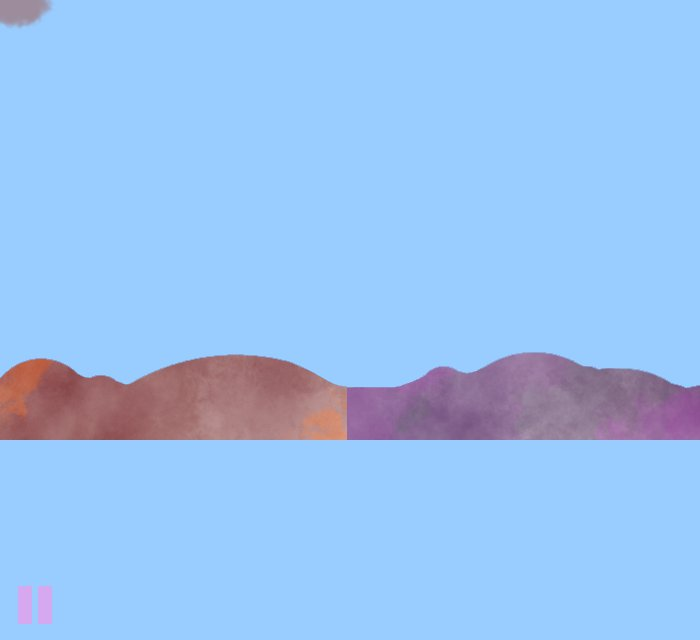
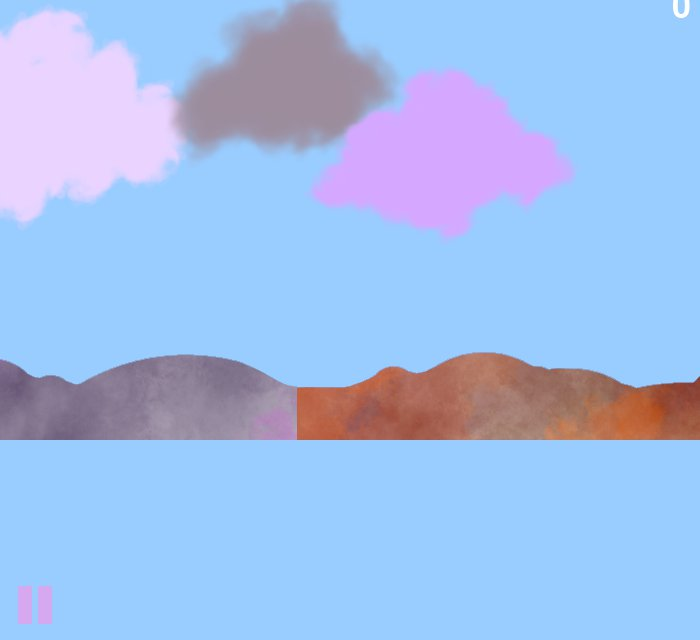
Add files via upload
погода сделана

Changed region(s): [[0.0, 0.0, 0.84, 0.375], [0.0, 0.5312, 1.0, 0.6875], [0.96, 0.0, 0.99, 0.0312]]

diff --git a/999.py b/999.py
@@ -1,0 +1,362 @@
+import os
+import sqlite3
+import sys
+import pygame
+import random
+
+
+WIDTH = 700
+HEIGHT = 700
+
+
+def load_screen_im(name, colorkey=None):
+    fullname = os.path.join('data', name)
+    if not os.path.isfile(fullname):
+        print(f"Файл с изображением '{fullname}' не найден")
+        sys.exit()
+    image = pygame.image.load(fullname)
+    if colorkey is not None:
+        image = image.convert()
+        if colorkey == -1:
+            colorkey = image.get_at((0, 0))
+        image.set_colorkey(colorkey)
+    else:
+        image = image.convert_alpha()
+    return image
+
+
+def music_play(name):
+    fullname = os.path.join('data', name)
+    if not os.path.isfile(fullname):
+        print(f"Звуковой файл '{fullname}' не найден")
+        sys.exit()
+    pygame.mixer.music.load(fullname)
+    pygame.mixer.music.play(-1)
+
+
+class App:
+    def __init__(self):
+        pygame.init()
+        self.screen = pygame.display.set_mode((WIDTH, HEIGHT))
+        pygame.display.set_caption('DESERT Adventure')
+        self.all_sprites = pygame.sprite.Group()
+        self.bird = AnimatedSprite(self, load_screen_im("birds5.png"), 8, 3, 700, 260)
+        self.fps = 200.0
+        self.clock = pygame.time.Clock()
+        self.length = 0
+        self.score = 0
+        self.mus = music_play('music.mp3')
+
+    def terminate(self):
+        pygame.quit()
+        sys.exit()
+
+    def game(self):
+        dog_surf = load_screen_im('pause.png')
+        dog_rect = dog_surf.get_rect(bottomright=(60, 690))
+        picture = Picture()
+        weather = Weather()
+        pause = False
+        run = True
+
+        while run:
+            for event in pygame.event.get():
+                if event.type == pygame.QUIT:
+                    self.terminate()
+                if event.type == pygame.MOUSEBUTTONUP:
+                    x, y = event.pos
+                    if (x in range(10, 60)) and (y in range(640, 690)):
+                        print('Пауза')
+                        if not pause:
+                            pause = True
+                            dog_surf = load_screen_im('play.png', -1)
+                            rect = pygame.Rect(0, 60, 700, 640)
+                            sub = self.screen.subsurface(rect)
+                            pygame.image.save(sub, 'data/screenshot.jpg')
+                            pause_screen = load_screen_im('screenshot.jpg')
+                            pause_rect = pause_screen.get_rect(topleft=(0, 60))
+                            self.screen.blit(pause_screen, pause_rect)
+                            pygame.mixer.music.pause()
+
+                        else:
+                            pause = False
+                            dog_surf = load_screen_im('pause.png', -1)
+                            pygame.mixer.music.unpause()
+            self.screen.fill('#99CCFF')
+            self.all_sprites.draw(self.screen)
+
+            if not pause:
+                self.length += 0.06
+
+                self.fps += 0.5
+
+                self.all_sprites.update()
+
+                font = pygame.font.Font(None, 50)
+                string_rendered = font.render(str(int(self.length)) + 'м', True, pygame.Color('white'))
+                intro_rect = string_rendered.get_rect()
+                intro_rect.top = 10
+                intro_rect.x = 675 - 24 * len(str(int(self.length)))
+                self.screen.blit(string_rendered, intro_rect)
+
+            else:
+                font = pygame.font.Font(None, 120)
+
+                string_rendered = font.render(str(int(self.length)) + 'м', True, pygame.Color('white'))
+                intro_rect = string_rendered.get_rect()
+                intro_rect.top = 250
+                intro_rect.x = (700 - 60 * len(str(int(self.length)))) // 2
+                self.screen.blit(string_rendered, intro_rect)
+
+            font = pygame.font.Font(None, 50)
+            string_rendered = font.render(str(int(self.score)), True, pygame.Color('white'))
+            intro_rect = string_rendered.get_rect()
+            intro_rect.top = 50
+            intro_rect.x = 700 - 28 * len(str(int(self.score)))
+            self.screen.blit(string_rendered, intro_rect)
+
+            self.screen.blit(picture.image, picture.rect)
+            self.screen.blit(picture.image2, picture.rect2)
+
+            if weather.clouds:
+                self.screen.blit(weather.clouds_1, weather.rect)
+                self.screen.blit(weather.clouds_2, weather.rect2)
+                self.screen.blit(weather.clouds_3, weather.rect3)
+            if weather.sun:
+                self.screen.blit(weather.sun_1, weather.rect4)
+
+            if int(self.length) % 119 == 0 and int(self.length) > 0:
+                new_weather = random.choice(['clouds', 'sun'])
+
+            if int(self.length) % 120 == 0 and int(self.length) > 2:
+                self.bird.new_bird()
+                weather.change_weather(new_weather)
+
+            picture.update(pause)
+            weather.update(pause)
+            self.screen.blit(dog_surf, dog_rect)
+            pygame.display.flip()
+            self.clock.tick(int(self.fps))
+
+    def start_game(self):
+        intro_text = ["ЗАСТАВКА", "",
+                      "Правила игры",
+                      "Начало игры",
+                      "Достижения"]
+
+        fon = pygame.transform.scale(load_screen_im('fon.jpg'), (WIDTH, HEIGHT))
+        self.screen.blit(fon, (0, 0))
+        font = pygame.font.Font(None, 30)
+
+        text_coord = 50
+        for line in intro_text:
+            string_rendered = font.render(line, True, pygame.Color('white'))
+            intro_rect = string_rendered.get_rect()
+            text_coord += 10
+            intro_rect.top = text_coord
+            intro_rect.x = 10
+            text_coord += intro_rect.height
+            self.screen.blit(string_rendered, intro_rect)
+
+        run = True
+        while run:
+            for event in pygame.event.get():
+                if event.type == pygame.QUIT:
+                    self.terminate()
+                if event.type == pygame.MOUSEBUTTONUP:
+                    x, y = event.pos
+                    if (x in range(10, 120)) and (y in range(60, 75)):
+                        print('Заставка')
+                    if (x in range(10, 147)) and (y in range(120, 135)):
+                        print('Правила')
+                    if (x in range(10, 150)) and (y in range(150, 165)):
+                        self.game()
+                    if (x in range(10, 180)) and (y in range(180, 195)):
+                        print('Достижения')
+
+            pygame.display.flip()
+            self.clock.tick(int(self.fps))
+
+    def update_records(self):
+        con = sqlite3.connect('info.sqlite')
+        cur = con.cursor()
+        length = cur.execute(f"""SELECT num from records
+                                    WHERE type = 'length'""").fetchall()
+        score = cur.execute(f"""SELECT num from records
+                                    WHERE type = 'score'""").fetchall()
+        con.close()
+
+        if self.length > length[0]:
+            con = sqlite3.connect('info.sqlite')
+            cur = con.cursor()
+            data = ('length', int(self.length))
+            query = 'INSERT INTO records VALUES (?, ?)'
+            cur.execute(query, data)
+            con.commit()
+            con.close()
+        if self.score > score[0]:
+            con = sqlite3.connect('info.sqlite')
+            cur = con.cursor()
+            data = ('score', int(self.score))
+            query = 'INSERT INTO records VALUES (?, ?)'
+            cur.execute(query, data)
+            con.commit()
+            con.close()
+
+    def finish_game(self):
+        pass
+
+
+class Picture:
+    def __init__(self):
+        self.image = pygame.image.load('data/test.png')
+        self.rect = self.image.get_rect()
+        self.rect.left = 0
+        self.rect.top = 400
+        # self.mask = pygame.mask.from_surface(self.image)
+
+        self.image2 = pygame.image.load('data/test3.png')
+        self.rect2 = self.image2.get_rect()
+        self.rect2.left = 700
+        self.rect2.top = 400
+        # self.mask2 = pygame.mask.from_surface(self.image2)
+
+        self.first_im = True
+        self.second_im = False
+        self.pause = False
+
+    def update(self, pause):
+        if not pause:
+            if self.first_im:
+                self.rect = self.rect.move(-1, 0)
+            if self.second_im:
+                self.rect2 = self.rect2.move(-1, 0)
+
+            if self.rect.left == -300 and self.first_im:
+                self.second_im = True
+                self.rect2.left = 700
+                self.rect2.top = 400
+            if self.rect.left == -1000 and self.first_im:
+                self.first_im = False
+            if self.rect2.left == -300 and self.second_im:
+                self.rect.left = 700
+                self.rect.top = 400
+                self.first_im = True
+            if self.rect2.left == -1000 and self.second_im:
+                self.second_im = False
+
+
+class AnimatedSprite(pygame.sprite.Sprite):
+    def __init__(self, app, sheet, columns, rows, x, y):
+        super().__init__(app.all_sprites)
+        self.frames = []
+        self.cut_sheet(sheet, columns, rows)
+        self.cur_frame = 0
+        self.image = self.frames[self.cur_frame]
+        self.rect = self.rect.move(x, y)
+        self.counter = 0
+        self.counter_of_fly = 0
+
+    def cut_sheet(self, sheet, columns, rows):
+        self.rect = pygame.Rect(0, 0, sheet.get_width() // columns,
+                                sheet.get_height() // rows)
+        for j in range(rows):
+            for i in range(columns):
+                frame_location = (self.rect.w * i, self.rect.h * j)
+                self.frames.append(sheet.subsurface(pygame.Rect(
+                    frame_location, self.rect.size)))
+
+    def update(self):
+        self.counter += 1
+        self.counter_of_fly += 1
+        if self.counter == 8:
+            self.counter = 0
+            self.cur_frame = (self.cur_frame + 1) % len(self.frames)
+            self.image = self.frames[self.cur_frame]
+        if self.counter_of_fly % 2 == 0:
+            self.rect = self.rect.move(-3, 0)
+
+    def new_bird(self):
+        self.rect.top = 260
+        self.rect.left = 700
+
+
+class Weather:
+    def __init__(self):
+        self.clouds_1 = load_screen_im('cloud.png')
+        self.clouds_2 = load_screen_im('cloud2.png')
+        self.clouds_3 = load_screen_im('cloud3.png')
+        self.rect = self.clouds_1.get_rect()
+        self.rect.left, self.rect.top = 400, 0
+        self.rect2 = self.clouds_1.get_rect()
+        self.rect2.left, self.rect2.top = 700, -50
+        self.rect3 = self.clouds_1.get_rect()
+        self.rect3.left, self.rect3.top = 300, 50
+
+        self.sun_1 = load_screen_im('sun.png')
+        self.rect4 = self.sun_1.get_rect()
+        self.rect4.left, self.rect4.top = 600, 100
+
+        self.weather = 'sun'
+        self.clouds = False
+        self.sun = True
+        self.catch_clouds = False
+        self.catch_sun = False
+
+        self.counter = 0
+
+    def update(self, pause):
+        self.counter += 1
+        if not pause and self.counter % 3 == 0:
+            if self.catch_clouds:
+                if self.rect.left > -300:
+                    self.rect = self.rect.move(-3, 0)
+                if self.rect2.left > -300:
+                    self.rect2 = self.rect2.move(-4, 0)
+                if self.rect3.left > -300:
+                    self.rect3 = self.rect3.move(-5, 0)
+                if self.rect.left <= -300 and self.rect2.left <= -300 and self.rect3.left <= -300:
+                    self.catch_clouds = False
+                    self.clouds = False
+
+            if self.catch_sun:
+                if self.rect4.left > -300:
+                    self.rect4 = self.rect4.move(-2, 0)
+                if self.rect4.left <= -300:
+                    self.catch_sun = False
+                    self.sun = False
+
+            if self.clouds and not self.catch_clouds:
+                self.rect = self.rect.move(-2, 0)
+                if self.rect.left <= -300:
+                    self.rect.left = 700
+                self.rect2 = self.rect2.move(-3, 0)
+                if self.rect2.left <= -300:
+                    self.rect2.left = 700
+                self.rect3 = self.rect3.move(-4, 0)
+                if self.rect3.left <= -300:
+                    self.rect3.left = 700
+            elif self.sun and not self.catch_sun:
+                self.rect4 = self.rect4.move(-1, 0)
+                if self.rect4.left <= -300:
+                    self.rect4.left = 600
+
+    def change_weather(self, weather):
+        if self.weather != weather:
+            if weather == 'sun':
+                self.weather = 'sun'
+                self.rect4.left, self.rect.top = 700, 0
+                self.sun = True
+                self.catch_clouds = True
+            else:
+                self.weather = 'clouds'
+                self.rect.left, self.rect.top = 700, 0
+                self.rect2.left, self.rect2.top = 850, -50
+                self.rect3.left, self.rect3.top = 900, 50
+                self.clouds = True
+                self.catch_sun = True
+
+
+if __name__ == '__main__':
+    app = App()
+    app.start_game()
